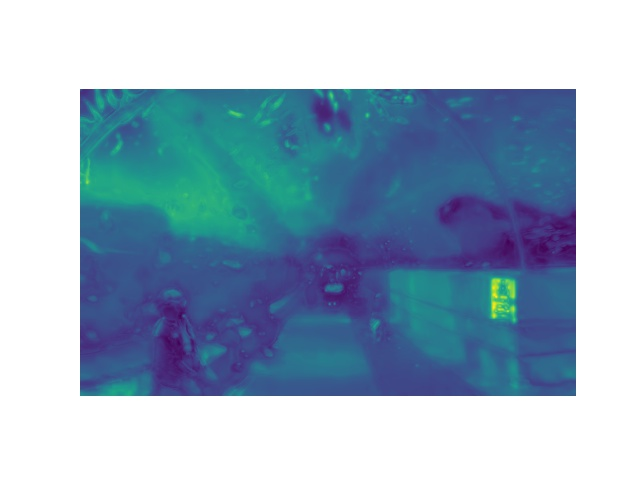
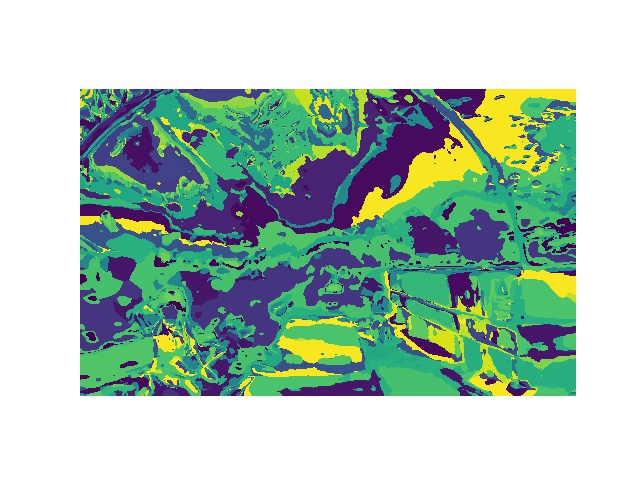
5th commit, wordmap fix

diff --git a/code/visual_words.py b/code/visual_words.py
@@ -83,8 +83,13 @@ def get_visual_words(image, dictionary):
     print(eucliDist.shape)
     # euclidDist (187500, 100), euclidean distant of each pixel to each of the 100 visual words
     wordmap = np.zeros(numOfPix)
+    min_euclid = np.zeros(numOfPix)
     for i in range(numOfPix):
-        wordmap[i] = min(eucliDist[i, :])
+        min_euclid[i] = min(eucliDist[i, :])
+    for i in range(numOfPix):
+        eucliDist_curr = eucliDist[i, :]
+        word, = np.where(eucliDist_curr == min_euclid[i])
+        wordmap[i] = word 
 
     #reshape back to original shape
     print(wordmap.shape)

diff --git a/code/main.py b/code/main.py
@@ -26,6 +26,7 @@ if __name__ == '__main__':
     dictionary = np.load('dictionary.npy')
     #img = visual_words.get_visual_words(image,dictionary)
     wordmap = visual_words.get_visual_words(image, dictionary)
+    print(wordmap)
     open('file.jpg', 'a').close
     util.save_wordmap(wordmap, 'file.jpg')
     #visual_recog.build_recognition_system(num_workers=num_cores)
